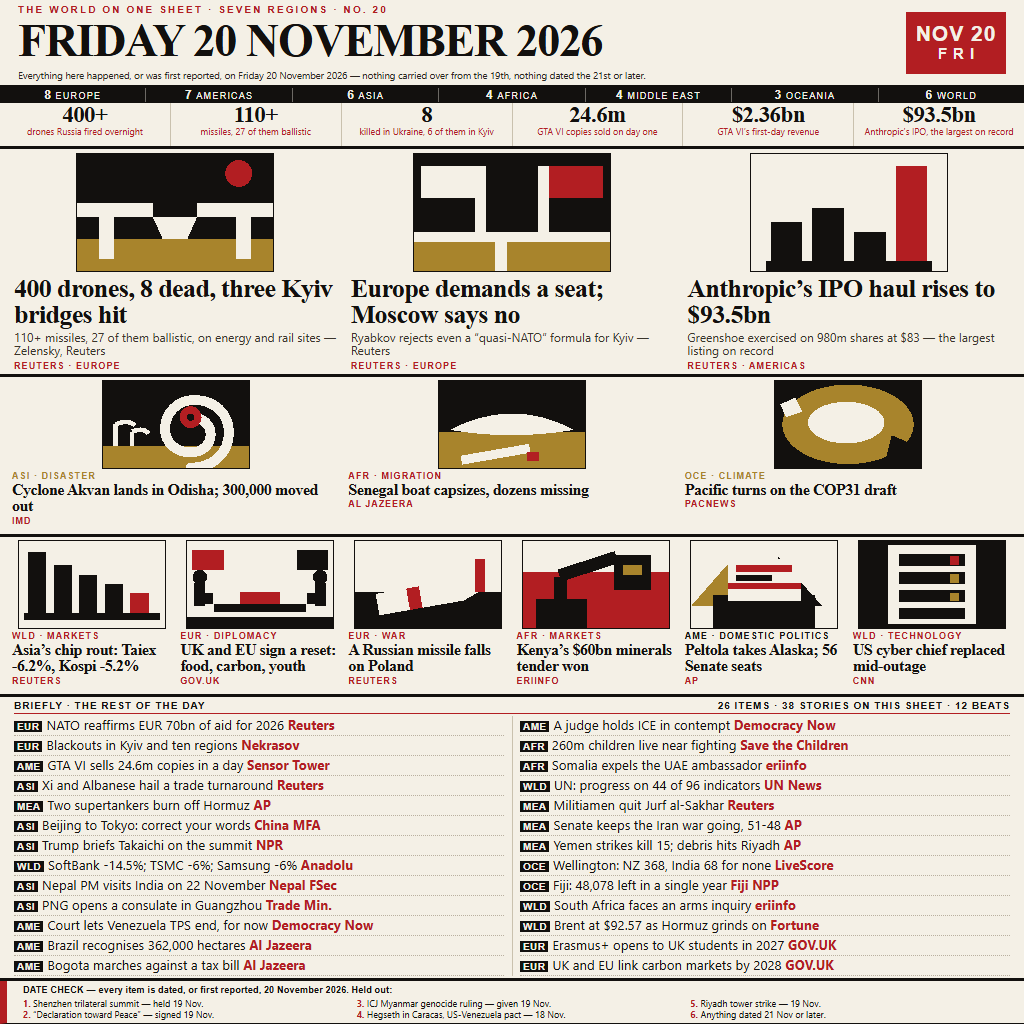
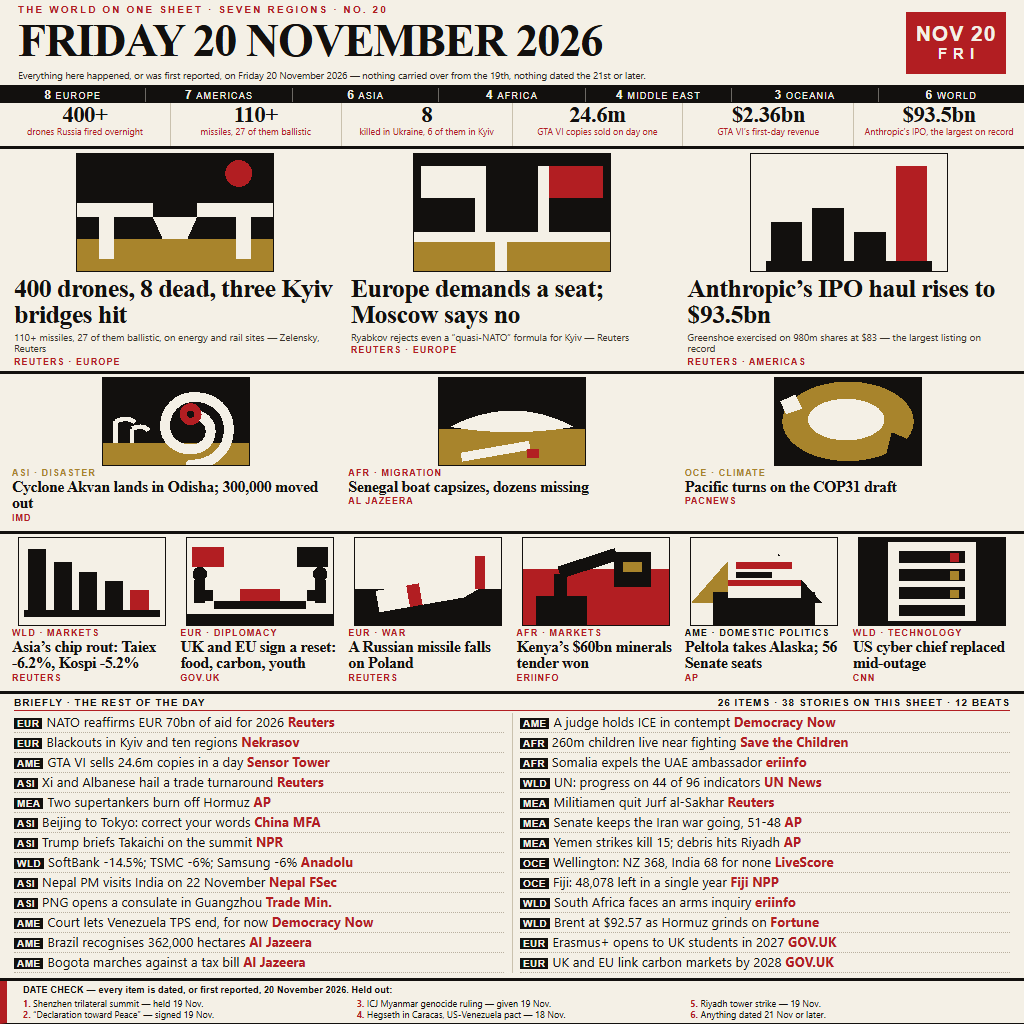
Return to the 13.2px briefs build that scored best (981,793, 12-0)

Changed region(s): [[0.0, 0.3125, 1.0, 0.9688], [0.4062, 0.5625, 0.4375, 0.5938]]

diff --git a/page.html b/page.html
@@ -35,11 +35,11 @@ html,body{width:1024px;height:1024px;overflow:hidden;background:#f4f0e6;color:#1
 .numbers .lb{font-family:"Segoe UI",Arial,sans-serif;font-size:9px;line-height:10.4px;color:#b21e22;
   text-align:center;max-width:100%;height:21px;overflow:visible}
 
-.leads{height:228px;display:flex;padding:4px 14px 4px;gap:14px;border-bottom:3px solid #12100e}
+.leads{height:225px;display:flex;padding:4px 14px 4px;gap:14px;border-bottom:3px solid #12100e}
 .lead{flex:1;min-width:0;display:flex;flex-direction:column}
 .lead .artbox{width:198px;height:118.8px;margin:0 auto;border:1px solid #12100e}
 .lead h2{font-size:26px;line-height:26px;font-weight:700;letter-spacing:-.6px;margin-top:4px}
-.lead .deck{font-family:"Segoe UI",Arial,sans-serif;font-size:12px;line-height:13.4px;margin-top:3px;
+.lead .deck{font-family:"Segoe UI",Arial,sans-serif;font-size:9.8px;line-height:11.6px;margin-top:3px;
   color:#3a352c}
 .lead .ft{font-family:Arial,Helvetica,sans-serif;font-size:9px;letter-spacing:1.1px;
   text-transform:uppercase;margin-top:3px;color:#b21e22;font-weight:700}
@@ -54,7 +54,7 @@ html,body{width:1024px;height:1024px;overflow:hidden;background:#f4f0e6;color:#1
 .card .cft{font-family:Arial,Helvetica,sans-serif;font-size:9px;letter-spacing:.9px;
   text-transform:uppercase;color:#b21e22;font-weight:700;margin-top:1px;line-height:10px}
 
-.briefs{height:284px;padding:2px 14px 2px;border-bottom:3px solid #12100e}
+.briefs{height:287px;padding:2px 14px 2px;border-bottom:3px solid #12100e}
 .bh{font-family:Arial,Helvetica,sans-serif;font-size:10px;font-weight:700;letter-spacing:1.9px;
   text-transform:uppercase;color:#b21e22;line-height:14px;border-bottom:1px solid #b21e22;
   margin-bottom:2px;display:flex;justify-content:space-between}
